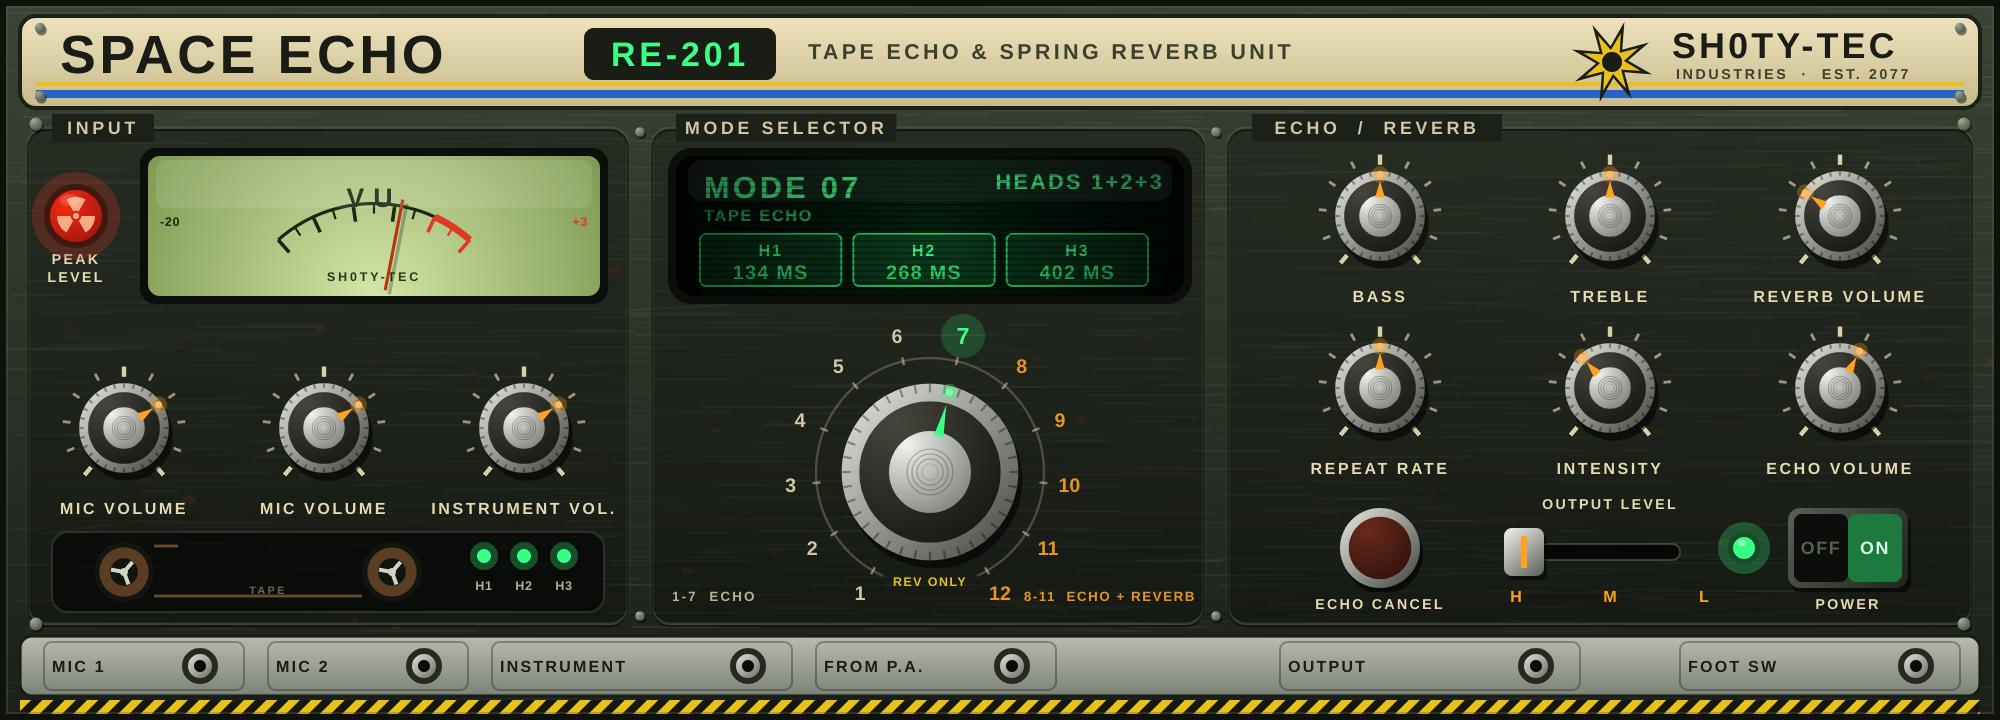
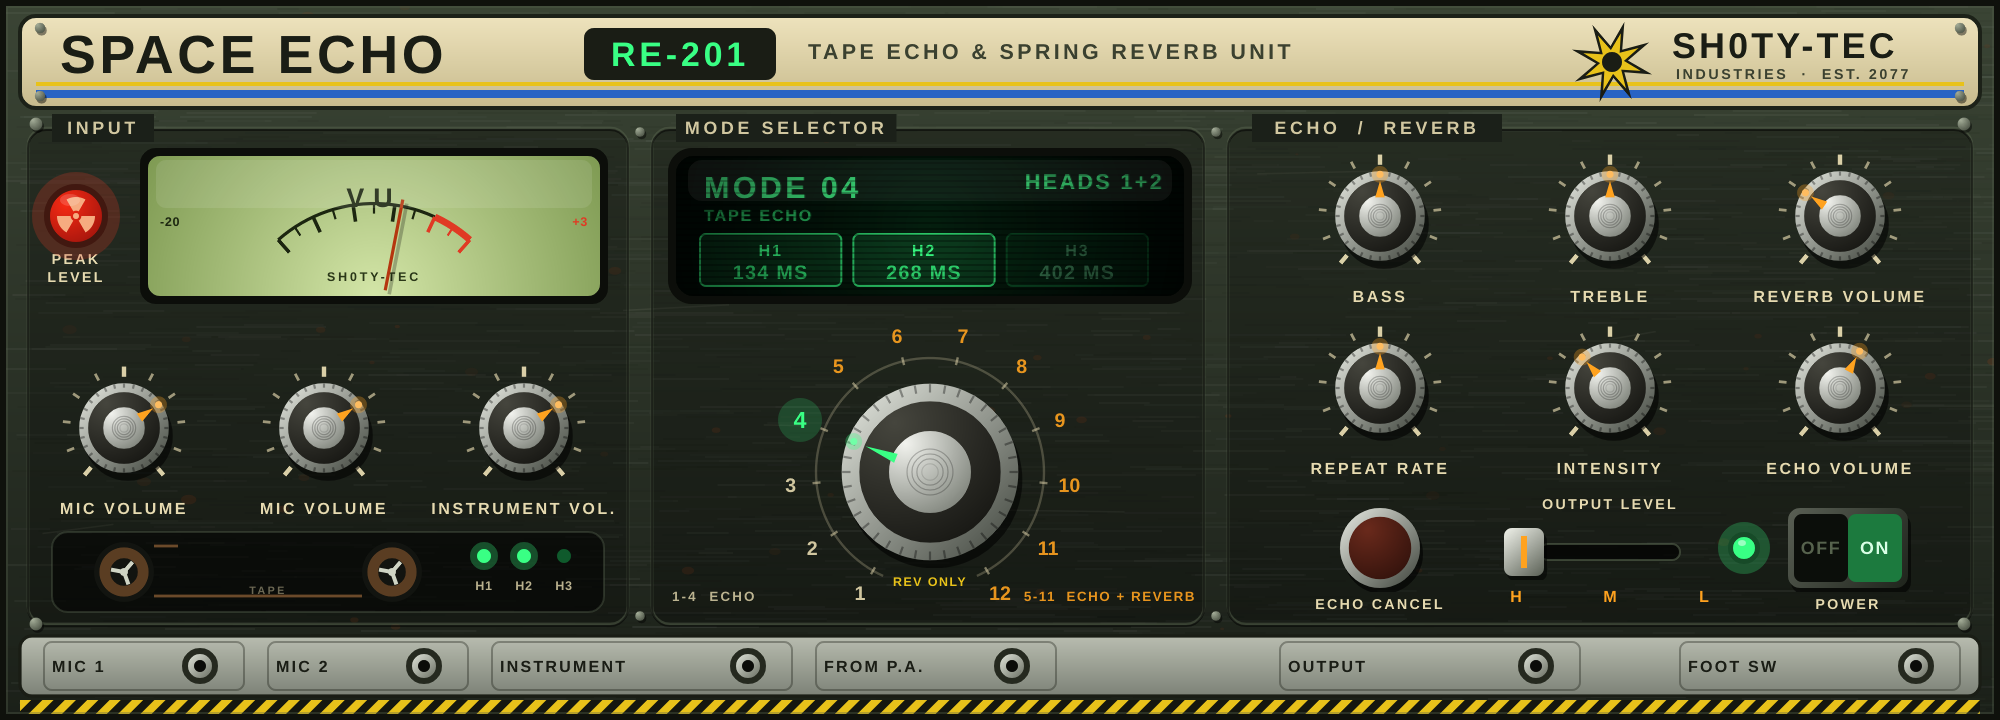
RE-201: use the published mode table (1-4 echo only, 5-11 echo + reverb, 12 reverb only; head 1 shortest)
Claude-Session: https://claude.ai/code/session_012hLuVF1MDrdb24tewskp13

diff --git a/Source/ReEditor.cpp b/Source/ReEditor.cpp
@@ -358,8 +358,8 @@ void Sh0tyRE201Editor::renderBackground()
         g.setColour (cream.withAlpha (0.25f));
         juce::Path arc; arc.addCentredArc (c.x, c.y, 57.f, 57.f, 0.f, kStart - 0.1f, kEnd + 0.1f, true);
         g.strokePath (arc, juce::PathStrokeType (1.2f));
-        text (g, "1-7  ECHO", { 336, 292, 80, 12 }, 7.5f, cream.withAlpha (0.8f), juce::Justification::centredLeft, 0.14f);
-        text (g, "8-11  ECHO + REVERB", { 502, 292, 96, 12 }, 7.5f, amber.withAlpha (0.9f), juce::Justification::centredRight, 0.1f);
+        text (g, "1-4  ECHO", { 336, 292, 80, 12 }, 7.5f, cream.withAlpha (0.8f), juce::Justification::centredLeft, 0.14f);
+        text (g, "5-11  ECHO + REVERB", { 502, 292, 96, 12 }, 7.5f, amber.withAlpha (0.9f), juce::Justification::centredRight, 0.1f);
         text (g, "REV ONLY", { c.x - 26, c.y + 50, 52, 10 }, 7.f, hazard, juce::Justification::centred, 0.1f);
     }
 
@@ -429,8 +429,8 @@ void Sh0tyRE201Editor::paintCrt (juce::Graphics& g, juce::Rectangle<float> r)
             text (g, s, box.translated (0.6f, 0.f), size, c.withAlpha (0.2f * glow), j, 0.10f);
             text (g, s, box, size, c.withAlpha (glow), j, 0.10f);
         };
-        static const char* names[] = { "HEAD 3", "HEAD 2", "HEAD 1", "HEADS 2+3", "HEADS 1+2", "HEADS 1+3", "HEADS 1+2+3",
-                                       "HEAD 3 + SPRING", "HEAD 2 + SPRING", "HEAD 1 + SPRING", "ALL HEADS + SPRING", "SPRING ONLY" };
+        static const char* names[] = { "HEAD 1", "HEAD 2", "HEAD 3", "HEADS 1+2", "HEAD 1 + SPRING", "HEAD 2 + SPRING", "HEAD 3 + SPRING",
+                                       "HEADS 1+2 + SPRING", "HEADS 2+3 + SPRING", "HEADS 1+3 + SPRING", "ALL HEADS + SPRING", "SPRING ONLY" };
         line (juce::String::formatted ("MODE %02d", m), r.getY() + 5.f, 17.f, phosphor);
         line (names[m - 1], r.getY() + 5.f, 12.f, phosphor, juce::Justification::centredRight);
         line (mi.echo ? (mi.reverb ? "TAPE ECHO + SPRING REVERB" : "TAPE ECHO")  : "SPRING REVERB", r.getY() + 23.f, 9.f, phosphor.withMultipliedBrightness (0.8f));
@@ -568,7 +568,7 @@ void Sh0tyRE201Editor::paint (juce::Graphics& g)
             const float a = kStart + (float) (i - 1) / 11.f * (kEnd - kStart);
             const auto p = c.getPointOnCircumference (70.f, a);
             const bool sel = i == m;
-            const juce::Colour col = sel ? phosphor : (i >= 8 ? amber.withAlpha (0.9f) : cream.withAlpha (0.9f));
+            const juce::Colour col = sel ? phosphor : (i >= 5 ? amber.withAlpha (0.9f) : cream.withAlpha (0.9f));
             if (sel) { g.setColour (phosphor.withAlpha (0.18f)); g.fillEllipse (p.x - 11.f, p.y - 11.f, 22.f, 22.f); }
             text (g, juce::String (i), { p.x - 11.f, p.y - 7.f, 22.f, 14.f }, sel ? 13.f : 11.f, col, juce::Justification::centred, 0.f);
             const auto t0 = c.getPointOnCircumference (55.f, a), t1 = c.getPointOnCircumference (59.f, a);

diff --git a/Source/SpaceEchoStage.h b/Source/SpaceEchoStage.h
@@ -17,22 +17,21 @@ constexpr int kModes = 12;
 
 struct ModeInfo { bool head[3]; bool reverb; bool echo; };
 
-// Dial positions follow the front panel: 1-7 are echo (single heads, then combinations), 8-11 echo + reverb,
-// 12 reverb only.
+// Dial positions: 1-4 echo only (heads 1, 2, 3, then 1 + 2), 5-11 echo + spring reverb with the head combinations, 12 reverb only.
 inline ModeInfo modeInfo (int mode)
 {
     static const ModeInfo table[kModes] = {
-        { { false, false, true  }, false, true  },   //  1  head 3
+        { { true,  false, false }, false, true  },   //  1  head 1
         { { false, true,  false }, false, true  },   //  2  head 2
-        { { true,  false, false }, false, true  },   //  3  head 1
-        { { false, true,  true  }, false, true  },   //  4  heads 2 + 3
-        { { true,  true,  false }, false, true  },   //  5  heads 1 + 2
-        { { true,  false, true  }, false, true  },   //  6  heads 1 + 3
-        { { true,  true,  true  }, false, true  },   //  7  heads 1 + 2 + 3
-        { { false, false, true  }, true,  true  },   //  8  head 3 + reverb
-        { { false, true,  false }, true,  true  },   //  9  head 2 + reverb
-        { { true,  false, false }, true,  true  },   // 10  head 1 + reverb
-        { { true,  true,  true  }, true,  true  },   // 11  heads 1 + 2 + 3 + reverb
+        { { false, false, true  }, false, true  },   //  3  head 3
+        { { true,  true,  false }, false, true  },   //  4  heads 1 + 2
+        { { true,  false, false }, true,  true  },   //  5  head 1 + reverb
+        { { false, true,  false }, true,  true  },   //  6  head 2 + reverb
+        { { false, false, true  }, true,  true  },   //  7  head 3 + reverb
+        { { true,  true,  false }, true,  true  },   //  8  heads 1 + 2 + reverb
+        { { false, true,  true  }, true,  true  },   //  9  heads 2 + 3 + reverb
+        { { true,  false, true  }, true,  true  },   // 10  heads 1 + 3 + reverb
+        { { true,  true,  true  }, true,  true  },   // 11  all heads + reverb
         { { false, false, false }, true,  false },   // 12  reverb only
     };
     return table[std::clamp (mode, 1, kModes) - 1];
@@ -44,7 +43,7 @@ constexpr float kHeadRatio[3] = { 1.f, 2.f, 3.f };
 
 struct Params
 {
-    int   mode = 7;
+    int   mode = 4;
     float repeatRate = 0.5f;
     float intensity = 0.35f;
     float echoVol = 0.6f;

diff --git a/tests/re201_test.cpp b/tests/re201_test.cpp
@@ -62,14 +62,14 @@ int main()
         {
             p.mode = m; auto y = impulse (p, 1.4);
             auto pk = peaks (y, 0.02f, 400);
-            const double want = t1 * re201::kHeadRatio[3 - m];
+            const double want = t1 * re201::kHeadRatio[m - 1];
             std::printf ("      mode %d: %zu echo(es), first at %.1f ms (want %.1f)\n", m, pk.size(), pk.empty() ? 0.0 : pk[0] * 1000 / FS, want * 1000);
             CHECK (pk.size() == 1 && std::fabs (pk[0] / FS - want) < 0.003, "single-head modes: one echo at the right head position");
         }
-        p.mode = 7; auto y = impulse (p, 1.4); auto pk = peaks (y, 0.02f, 400);
-        CHECK (pk.size() == 3, "mode 7 gives three echoes");
+        p.mode = 11; p.reverbVol = 0.f; auto y = impulse (p, 1.4); auto pk = peaks (y, 0.02f, 400);
+        CHECK (pk.size() == 3, "mode 11 (all heads, reverb off) gives three echoes");
         if (pk.size() == 3) CHECK (std::fabs ((pk[1] - pk[0]) / FS - t1) < 0.003 && std::fabs ((pk[2] - pk[1]) / FS - t1) < 0.003, "the three echoes are evenly spaced (1x, 2x, 3x)");
-        p.mode = 4; pk = peaks (impulse (p, 1.4), 0.02f, 400); CHECK (pk.size() == 2, "mode 4 (heads 2 + 3) gives two echoes");
+        p.mode = 4; pk = peaks (impulse (p, 1.4), 0.02f, 400); CHECK (pk.size() == 2, "mode 4 (heads 1 + 2) gives two echoes");
     }
     // --- REPEAT RATE changes the spacing ---
     {
@@ -79,7 +79,7 @@ int main()
     }
     // --- INTENSITY: repeats ---
     {
-        auto p = base(); p.mode = 3;
+        auto p = base(); p.mode = 1;
         p.intensity = 0.f;  auto y0 = impulse (p, 2.0);
         p.intensity = 0.5f; auto y1 = impulse (p, 2.0);
         p.intensity = 0.9f; auto y2 = impulse (p, 2.0);
@@ -95,7 +95,7 @@ int main()
     }
     // --- runaway is bounded, no NaN, no DC ---
     {
-        auto p = base(); p.mode = 7; p.intensity = 1.f; p.echoVol = 1.f; p.reverbVol = 1.f; p.wow = 1.f;
+        auto p = base(); p.mode = 11; p.intensity = 1.f; p.echoVol = 1.f; p.reverbVol = 1.f; p.wow = 1.f;
         re201::SpaceEcho e; e.prepare (FS); e.setParams (p); e.reset();
         float mx = 0; double dc = 0; unsigned s = 7;
         for (int n = 0; n < (int) (FS * 20); ++n)

diff --git a/Source/ReProcessor.cpp b/Source/ReProcessor.cpp
@@ -13,7 +13,7 @@ Sh0tyRE201Processor::Sh0tyRE201Processor()
               p.push_back (std::make_unique<juce::AudioParameterFloat> (
                   juce::ParameterID { id, 1 }, name, juce::NormalisableRange<float> (0.f, 1.f, 0.001f), def)); };
           add ("mic1", "Mic Volume 1", 0.7f); add ("mic2", "Mic Volume 2", 0.7f); add ("inst", "Instrument Volume", 0.7f);
-          p.push_back (std::make_unique<juce::AudioParameterInt> (juce::ParameterID { "mode", 1 }, "Mode Selector", 1, 12, 7));
+          p.push_back (std::make_unique<juce::AudioParameterInt> (juce::ParameterID { "mode", 1 }, "Mode Selector", 1, 12, 4));
           add ("bass", "Bass", 0.5f); add ("treble", "Treble", 0.5f); add ("reverb", "Reverb Volume", 0.3f);
           add ("rate", "Repeat Rate", 0.5f); add ("intensity", "Intensity", 0.35f); add ("echo", "Echo Volume", 0.6f);
           p.push_back (std::make_unique<juce::AudioParameterChoice> (juce::ParameterID { "outlevel", 1 }, "Output Level",

diff --git a/README.md b/README.md
@@ -75,9 +75,8 @@ analogue VU, radiation-trefoil PEAK lamp, chrome and Bakelite dials and a hazard
   60 ms), and the motor slews, so turning it bends the pitch like the real thing. Wow and flutter, a head/tape bandwidth
   roll-off that dulls every repeat, and a soft-saturating record path so INTENSITY can run away into self-oscillation
   without blowing up.
-- **MODE SELECTOR** (12 positions): 1-3 single heads, 4-7 head combinations, 8-11 echo + spring reverb, 12 spring only.
-  The head combinations follow common documentation of the unit rather than a measurement of one, so treat them as an
-  approximation; the table is `modeInfo()` in `Source/SpaceEchoStage.h`.
+- **MODE SELECTOR** (12 positions): 1-3 single heads (1 shortest), 4 heads 1+2, 5-11 spring reverb with head 1 / 2 / 3 / 1+2 / 2+3 / 1+3 / all three, 12 spring only.
+  The table follows published descriptions of the unit rather than a measurement of one; it is `modeInfo()` in `Source/SpaceEchoStage.h`.
 - **Spring reverb**: two springs, each a delay with a chain of dispersive allpasses (the chirpy "boing"), damping and feedback.
 - **Controls**: MIC VOLUME 1 / 2 (how much of the left / right input is sent to the echo), INSTRUMENT VOLUME (overall
   send, and drive into the pre-amp), BASS, TREBLE, REVERB VOLUME, REPEAT RATE, INTENSITY, ECHO VOLUME, OUTPUT LEVEL H/M/L,
